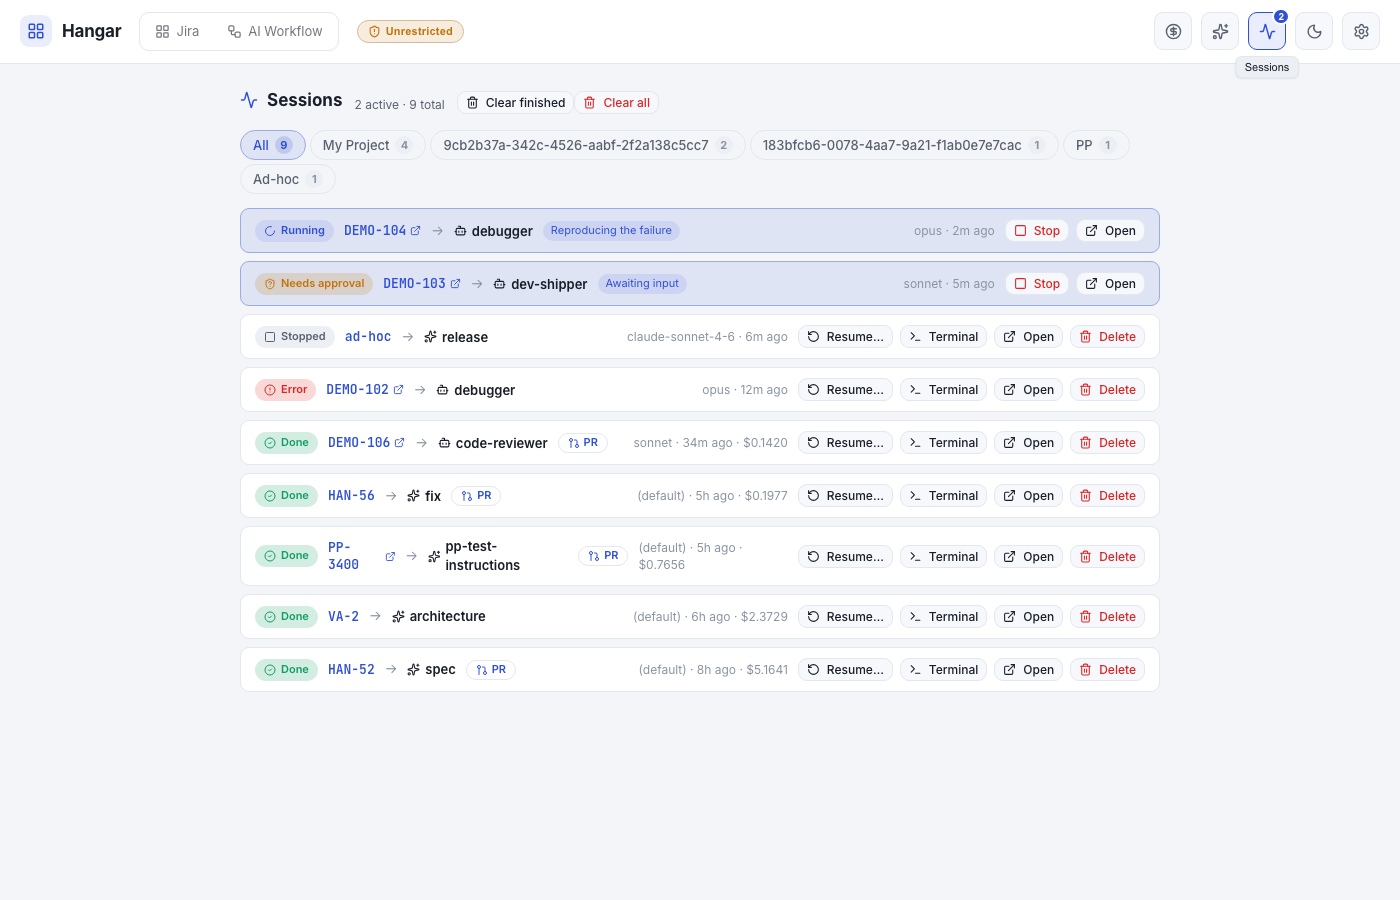
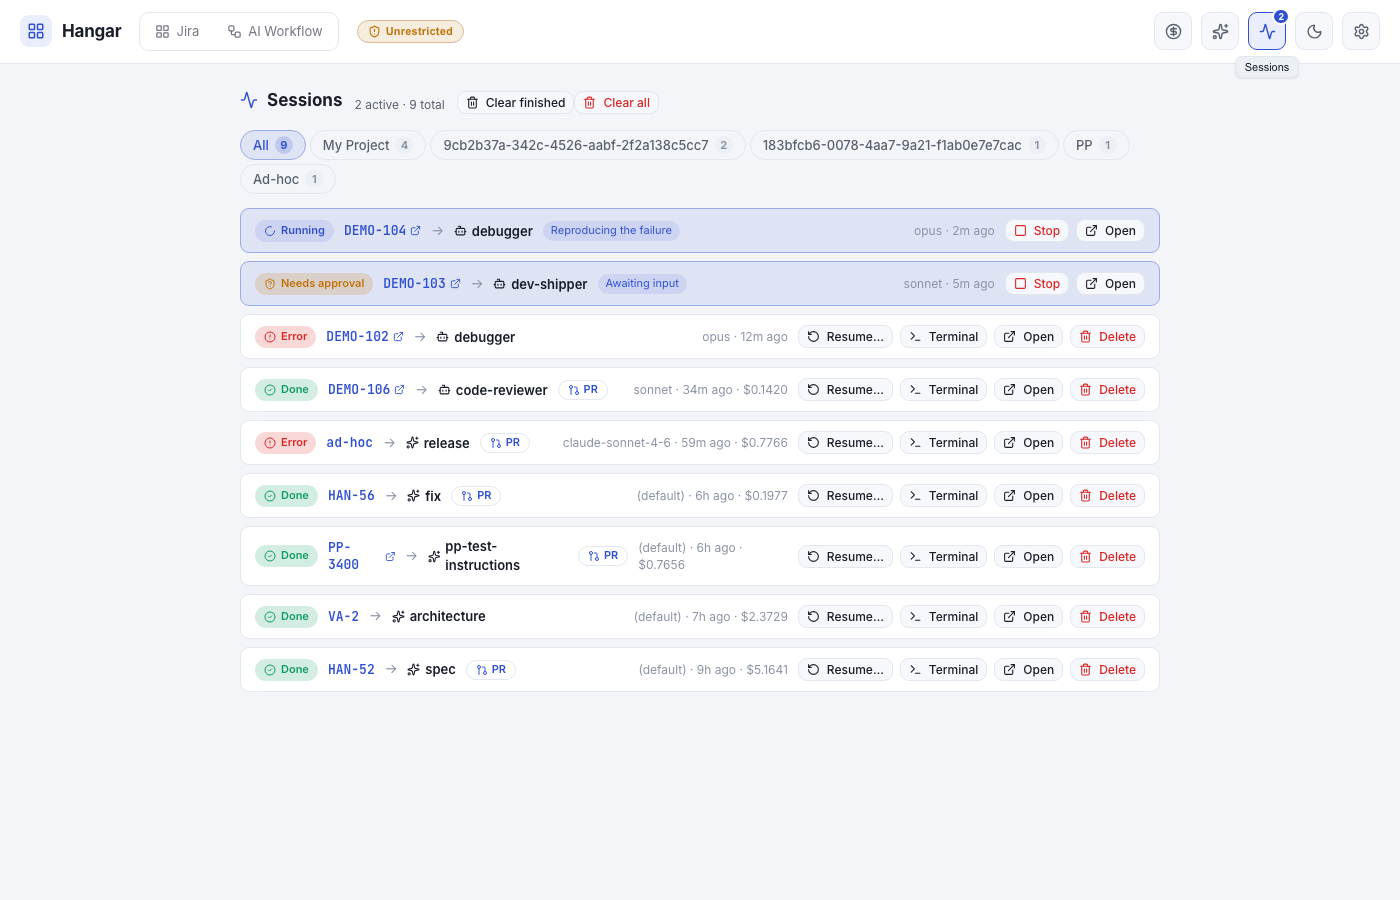
docs: refresh demo-mode screenshots with masked Jira settings

Changed region(s): [[0.1843, 0.3422, 0.5529, 0.5289], [0.4914, 0.4044, 0.5529, 0.4356], [0.3993, 0.4044, 0.43, 0.4356]]

diff --git a/CHANGELOG.md b/CHANGELOG.md
@@ -37,6 +37,12 @@ and this project adheres to [Semantic Versioning](https://semver.org/spec/v2.0.0
   no longer bleed into the picker (HAN-49)
 - Session history removed from the task card to reduce noise in the board view (HAN-50)
 
+### Security
+
+- Demo mode no longer surfaces the real Jira base URL and email on the Settings screen — the
+  connection view now returns demo placeholders under `HANGAR_DEMO=1`, so README screenshots
+  captured from demo mode can no longer leak the operator's real Jira credentials
+
 ## [0.8.0] - 2026-07-02
 
 ### Added
